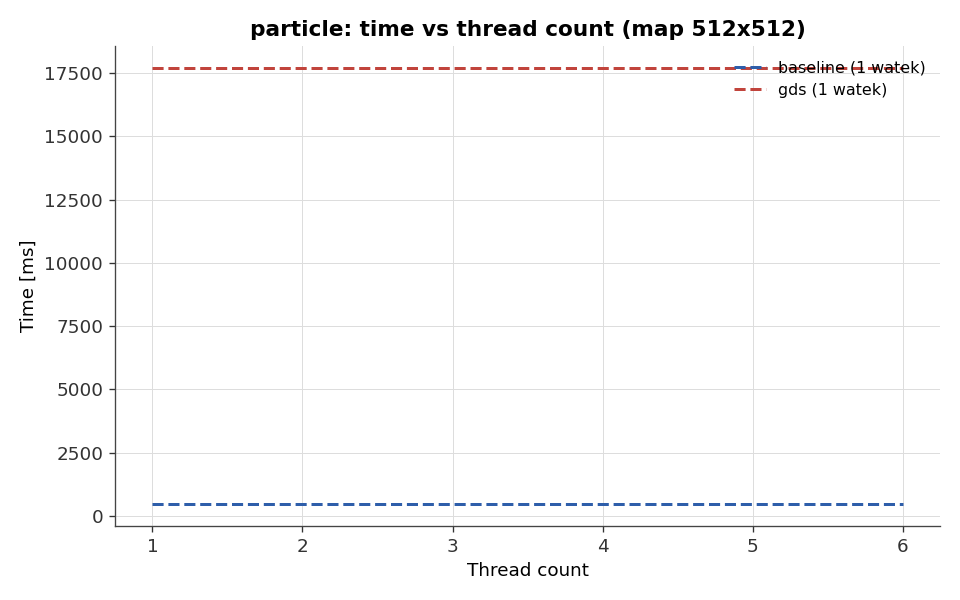
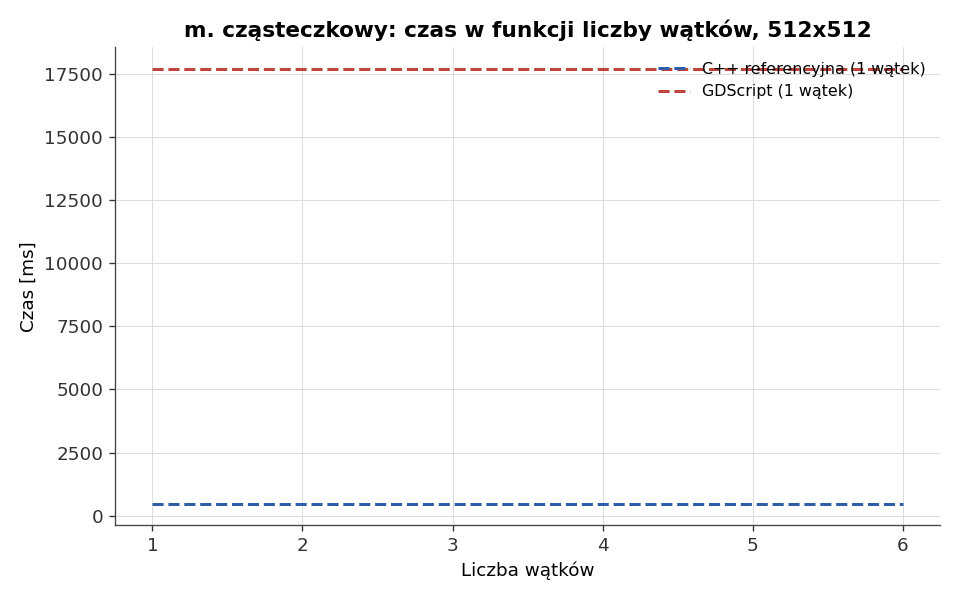
plots to polish, one plot from log+linear

diff --git a/data_analysis/analyze_results.py b/data_analysis/analyze_results.py
@@ -91,7 +91,33 @@ ITERATIONS = {
     "particle": {32: 1250, 64: 5000, 128: 20000, 256: 80000, 512: 320000},
 }
 
+# zamiana na polskie nazwy na wykresach, xd
+IMPL_LABEL = {
+    "baseline": "C++ referencyjna",
+    "gds": "GDScript",
+    "optimized": "C++ zoptymalizowana",
+}
 
+ALGO_LABEL = {
+    "pipe": "m. przepływowy",
+    "particle": "m. cząsteczkowy",
+}
+
+
+
+def impl_label(impl: str) -> str:
+    return IMPL_LABEL.get(impl, impl)
+
+def algo_label(algo: str) -> str:
+    return ALGO_LABEL.get(algo, algo)
+
+def threads_label(n) -> str:
+    n = int(n)
+    if n == 1:
+        return "1 wątek"
+    if 2 <= n % 10 <= 4 and not 12 <= n % 100 <= 14:
+        return f"{n} wątki"
+    return f"{n} wątków"
 
 # ŚCIEŻKI PER KATEGORIA
 def times_file(name: str) -> str:
@@ -151,6 +177,22 @@ def _color_for(idx: int) -> str:
 def _plain_y_axis(ax) -> None:
     ax.yaxis.set_major_formatter(mticker.ScalarFormatter())
     ax.ticklabel_format(style="plain", axis="y")
+
+# dwa warianty tego samego wykresu (liniowy + logarytmiczny) obok siebie
+def save_linear_log_pair(draw, filename_stem: str, suptitle: str, tag: str = "") -> None:
+    fig, axes = plt.subplots(1, 2, figsize=(14, 5))
+    for ax, log_variant in zip(axes, (False, True)):
+        draw(ax, log_variant)
+        ax.set_title("skala liniowa" if not log_variant else "skala log.")
+    # ta sama wielkość co po lewej
+    axes[1].set_ylabel("")
+    fig.suptitle(suptitle, fontweight="bold")
+    fig.tight_layout()
+    out = output_file(f"{filename_stem}_combined.png")
+    fig.savefig(out)
+    print(f"[{tag}] saved - {out}")
+    plt.show()
+    plt.close(fig)
 
 
 
@@ -279,7 +321,7 @@ def plot_divergence_vs_iterations() -> None:
             series[impl]["iters"].append(it)
             series[impl]["max"].append(float(np.max(np.abs(diff))))
             series[impl]["rmse"].append(float(np.sqrt(np.mean(diff ** 2))))
-            print(f"  iters={it:5d}  {impl} vs baseline:  max|delta|={series[impl]['max'][-1]:.3e}")
+            print(f"  iters={it:5d} {impl} vs baseline:  max|delta|={series[impl]['max'][-1]:.3e}")
 
     fig, ax = plt.subplots()
     for impl in DIVERGENCE_LABELS:
@@ -287,7 +329,7 @@ def plot_divergence_vs_iterations() -> None:
         if not s["iters"]:
             continue
         style = IMPL_STYLE.get(impl, {})
-        ax.plot(s["iters"], s["max"], marker="o", label=f"{impl} vs baseline", **style)
+        ax.plot(s["iters"], s["max"], marker="o", label=f"{impl_label(impl)} względem referencyjnej", **style)
 
     # poziom odniesienia: amplituda terenu - powyżej niej różnice są wizualnie istotne
     if terrain_range:
@@ -300,7 +342,7 @@ def plot_divergence_vs_iterations() -> None:
     ax.set_xticklabels(iters_list)
     ax.set_xlabel("Liczba iteracji")
     ax.set_ylabel(r"max$|\Delta|$ wysokości")
-    ax.set_title("pipe: narastanie rozbieżności numerycznej")
+    ax.set_title(f"{algo_label('pipe')}: narastanie rozbieżności numerycznej")
     ax.legend()
 
     fig.tight_layout()
@@ -308,6 +350,7 @@ def plot_divergence_vs_iterations() -> None:
     fig.savefig(out)
     print(f"[pipe] saved - {out}")
     plt.show()
+    plt.close(fig)
 
 
 
@@ -368,70 +411,76 @@ def plot_time_vs_threads(algo: str) -> None:
     opt_threads = sorted(sub[sub["impl"] == "optimized"]["threads_used"].unique())
     x_lo, x_hi = (min(opt_threads), max(opt_threads)) if len(opt_threads) > 1 else DEFAULT_THREAD_RANGE
 
-    for log_variant in (False, True):
-        fig, ax = plt.subplots()
+    def draw(ax, log_variant: bool) -> None:
         for impl, g in sub.groupby("impl"):
             style = IMPL_STYLE.get(impl, {"color": "#4C4C4C", "linestyle": "-"})
             if impl == "optimized" and len(g) > 1:
                 g = g.sort_values("threads_used")
-                ax.plot(g["threads_used"], g["mean_us"] / 1000.0, marker="o", color=style["color"], linestyle=style["linestyle"], label=impl)
+                ax.plot(g["threads_used"], g["mean_us"] / 1000.0, marker="o", color=style["color"], linestyle=style["linestyle"], label=impl_label(impl))
             else:
                 ref = g["mean_us"].mean() / 1000.0
-                ax.hlines(ref, x_lo, x_hi, color=style["color"], linestyles=style["linestyle"], label=f"{impl} (1 watek)")
+                ax.hlines(ref, x_lo, x_hi, color=style["color"], linestyles=style["linestyle"], label=f"{impl_label(impl)} ({threads_label(1)})")
 
-        ax.set_xlabel("Thread count")
-        ax.set_ylabel("Time [ms]")
-    
+        ax.set_xlabel("Liczba wątków")
+        ax.set_ylabel("Czas [ms]")
+
         if log_variant:
             ax.set_yscale("log")
-            suffix, title = "log", f"{algo}: time vs thread count (map {max_size}x{max_size}) (log scale)"
+            ax.set_title(f"{algo_label(algo)}: czas w funkcji liczby wątków, {max_size}x{max_size}, skala log.")
         else:
             _plain_y_axis(ax)
-            suffix, title = "linear", f"{algo}: time vs thread count (map {max_size}x{max_size})"
-        
-        ax.set_title(title)
+            ax.set_title(f"{algo_label(algo)}: czas w funkcji liczby wątków, {max_size}x{max_size}")
         ax.legend()
 
+    for log_variant in (False, True):
+        fig, ax = plt.subplots()
+        draw(ax, log_variant)
         fig.tight_layout()
-        out = output_file(f"{algo}_time_vs_threads_{suffix}.png")
+        out = output_file(f"{algo}_time_vs_threads_{'log' if log_variant else 'linear'}.png")
         fig.savefig(out)
         print(f"[{algo}] saved - {out}")
         plt.show()
+        plt.close(fig)
+
+    save_linear_log_pair(draw, f"{algo}_time_vs_threads", f"{algo_label(algo)}: czas w funkcji liczby wątków, {max_size}x{max_size}", algo)
 
 
 # 3.2. CZAS vs ROZMIAR MAPY oraz SKALOWANIE (ns/komorke) - liniowo i logarytmicznie
 def _plot_vs_mapsize(algo: str, agg, y_col: str, y_label: str, title_suffix: str, filename_stem: str, unit_divisor: float = 1.0) -> None:
     sizes = sorted(agg["map_width"].unique())
 
-    for log_variant in (False, True):
-        fig, ax = plt.subplots()
+    def draw(ax, log_variant: bool) -> None:
         for impl, g in agg.groupby("impl"):
             best = g["threads_used"].max()
             gg = g[g["threads_used"] == best].sort_values("map_width")
-            label = f"optimized ({best} w.)" if impl == "optimized" else impl
+            label = f"{impl_label(impl)} ({threads_label(best)})" if impl == "optimized" else impl_label(impl)
             ax.plot(gg["map_width"], gg[y_col] / unit_divisor, marker="o", label=label)
 
         ax.set_xscale("log", base=2)
         ax.set_xticks(sizes)
         ax.set_xticklabels(sizes)
-        ax.set_xlabel("Map size (side)")
+        ax.set_xlabel("Rozmiar mapy (bok)")
         ax.set_ylabel(y_label)
 
         if log_variant:
             ax.set_yscale("log")
-            suffix, title = "log", f"{algo}: {title_suffix} (log scale)"
+            ax.set_title(f"{algo_label(algo)}: {title_suffix}, skala log.")
         else:
             _plain_y_axis(ax)
-            suffix, title = "linear", f"{algo}: {title_suffix}"
-
-        ax.set_title(title)
+            ax.set_title(f"{algo_label(algo)}: {title_suffix}")
         ax.legend()
 
+    for log_variant in (False, True):
+        fig, ax = plt.subplots()
+        draw(ax, log_variant)
         fig.tight_layout()
-        out = output_file(f"{filename_stem}_{suffix}.png")
+        out = output_file(f"{filename_stem}_{'log' if log_variant else 'linear'}.png")
         fig.savefig(out)
         print(f"[{algo}] saved - {out}")
         plt.show()
+        plt.close(fig)
+
+    save_linear_log_pair(draw, filename_stem, f"{algo_label(algo)}: {title_suffix}", algo)
 
 def plot_time_vs_mapsize(algo: str) -> None:
     df = load_timing(algo)
@@ -439,7 +488,7 @@ def plot_time_vs_mapsize(algo: str) -> None:
         print(f"\n[{algo}] skipped (time vs map size) - missing data")
         return
     agg = _agg_timing(df)
-    _plot_vs_mapsize(algo, agg, "mean_us", "Time [ms]", "time vs map size", f"{algo}_time_vs_mapsize", unit_divisor=1000.0)
+    _plot_vs_mapsize(algo, agg, "mean_us", "Czas [ms]", "czas w funkcji rozmiaru mapy", f"{algo}_time_vs_mapsize", unit_divisor=1000.0)
 
 # czy koszt na komórkę jest stały czy się zmienia (np. przejście między poziomami cache)
 def plot_time_scaling(algo: str) -> None:
@@ -451,7 +500,7 @@ def plot_time_scaling(algo: str) -> None:
     agg["cells"] = agg["map_width"].astype(float) ** 2
     agg["iters"] = agg["map_width"].map(ITERATIONS[algo]).astype(float)
     agg["ns_per_cell"] = agg["mean_us"] * 1000.0 / (agg["cells"] * agg["iters"])
-    _plot_vs_mapsize(algo, agg, "ns_per_cell", "Time per cell and iteration [ns]", "time per cell and iteration vs map size (scaling)", f"{algo}_time_scaling", unit_divisor=1.0)
+    _plot_vs_mapsize(algo, agg, "ns_per_cell", "Czas na komórkę i iterację [ns]", "czas na komórkę i iterację a rozmiar mapy", f"{algo}_time_scaling", unit_divisor=1.0)
 
 
 # 3.3. PRZYŚPIESZENIE
@@ -477,15 +526,16 @@ def plot_speedup_vs_baseline(algo: str) -> None:
     fig, ax = plt.subplots()
     ax.plot(opt["threads_used"], speedup, marker="o", color=_color_for(1))
     ax.axhline(1.0, color="#999999", linestyle="--", linewidth=1)
-    ax.set_xlabel("Thread count")
-    ax.set_ylabel("Speedup relative to baseline C++ (1 thread)")
-    ax.set_title(f"{algo}: speedup optimized/baseline, map {max_size}x{max_size}")
+    ax.set_xlabel("Liczba wątków")
+    ax.set_ylabel("Przyśpieszenie względem C++ (1 wątek)")
+    ax.set_title(f"{algo_label(algo)}: przyśpieszenie wersji zoptymalizowanej, {max_size}x{max_size}")
 
     fig.tight_layout()
     out = output_file(f"{algo}_speedup_vs_baseline.png")
     fig.savefig(out)
     print(f"[{algo}] saved - {out}")
     plt.show()
+    plt.close(fig)
 
 def plot_speedup_vs_gds(algo: str) -> None:
     df = load_timing(algo)
@@ -516,18 +566,16 @@ def plot_speedup_vs_gds(algo: str) -> None:
         x_range = (int(opt["threads_used"].min()), int(opt["threads_used"].max()))
 
     fig, ax = plt.subplots()
-    ax.hlines(base_vs_gds, x_range[0], x_range[1], linestyles="--",
-              color=_color_for(0), label="baseline C++ / GDScript")
+    ax.hlines(base_vs_gds, x_range[0], x_range[1], linestyles="--", color=_color_for(0), label=f"{impl_label('baseline')} / {impl_label('gds')}")
 
     if opt is not None and len(opt) > 1:
         opt_vs_gds = gds_time / opt["mean_us"]
-        ax.plot(opt["threads_used"], opt_vs_gds, marker="o", color=_color_for(1),
-                 label="optimized C++ / GDScript")
+        ax.plot(opt["threads_used"], opt_vs_gds, marker="o", color=_color_for(1), label=f"{impl_label('optimized')} / {impl_label('gds')}")
 
     ax.axhline(1.0, color="#999999", linestyle=":", linewidth=1)
-    ax.set_xlabel("Thread count")
-    ax.set_ylabel("Speedup relative to GDScript")
-    ax.set_title(f"{algo}: speedup C++ relative to GDScript, map {max_size}x{max_size}")
+    ax.set_xlabel("Liczba wątków")
+    ax.set_ylabel("Przyśpieszenie względem GDScript")
+    ax.set_title(f"{algo_label(algo)}: przyśpieszenie C++ względem GDScript, {max_size}x{max_size}")
     ax.legend()
 
     fig.tight_layout()
@@ -535,6 +583,7 @@ def plot_speedup_vs_gds(algo: str) -> None:
     fig.savefig(out)
     print(f"[{algo}] saved - {out}")
     plt.show()
+    plt.close(fig)
 
 
 
@@ -590,20 +639,23 @@ def plot_memory(algo: str, target_bins: int = 60) -> None:
 
         formula = ANALYTICAL_BYTES.get(algo)
         if formula:
-            ax.axhline(formula(max_size) / 1e6, color="#999999", linestyle="--", linewidth=1)
+            ax.axhline(formula(max_size) / 1e6, color="#999999", linestyle="--", linewidth=1, label="wartość analityczna")
 
-        ax.set_xlabel("Time [ms]")
+        ax.set_xlabel("Czas [ms]")
         if idx == 0:
-            ax.set_ylabel("Memory growth vs start [MB]")
+            ax.set_ylabel("Przyrost pamięci względem stanu początkowego [MB]")
         _plain_y_axis(ax)
-        ax.set_title(f"{impl} ({g['run'].nunique()} runs)")
+        ax.set_title(f"{impl_label(impl)} (przebiegi: {g['run'].nunique()})")
+        if formula:
+            ax.legend()
 
-    fig.suptitle(f"{algo}: memory in time per implementation, map {max_size}x{max_size}", fontweight="bold")
+    fig.suptitle(f"{algo_label(algo)}: zużycie pamięci w czasie, {max_size}x{max_size}", fontweight="bold")
     fig.tight_layout()
     out = output_file(f"{algo}_memory.png")
     fig.savefig(out)
     print(f"[{algo}] saved - {out}")
     plt.show()
+    plt.close(fig)
 
 def report_analytical_memory() -> None:
     print("\n=== Analytical buffer footprint (pipe) ===")
@@ -698,14 +750,13 @@ def plot_realtime_frametime(family: str) -> None:
     fig, ax = plt.subplots()
     for idx, (impl, g) in enumerate(sub.groupby("impl")):
         g = g.sort_values("iterations_at_once")
-        ax.plot(g["iterations_at_once"], g["p95_ms"], marker="o",
-                color=_color_for(idx), label=impl)
+        ax.plot(g["iterations_at_once"], g["p95_ms"], marker="o", color=_color_for(idx), label=impl_label(impl))
 
-    ax.axhline(FPS_BUDGET_MS, color="#999999", linestyle="--", linewidth=1, label="60 FPS budget (16.67 ms)")
-    ax.set_xlabel("iterations_at_once")
-    ax.set_ylabel("Frame time, p95 [ms]")
+    ax.axhline(FPS_BUDGET_MS, color="#999999", linestyle="--", linewidth=1, label="budżet 60 kl./s (16.67 ms)")
+    ax.set_xlabel("Liczba iteracji na klatkę")
+    ax.set_ylabel("Czas klatki, p95 [ms]")
     _plain_y_axis(ax)
-    ax.set_title(f"{family}: p95 frame time vs iterations_at_once (map {max_size}x{max_size})")
+    ax.set_title(f"{algo_label(family)}: czas klatki (p95) a liczba iteracji, {max_size}x{max_size}")
     ax.legend()
 
     fig.tight_layout()
@@ -713,6 +764,7 @@ def plot_realtime_frametime(family: str) -> None:
     fig.savefig(out)
     print(f"[{family}] saved - {out}")
     plt.show()
+    plt.close(fig)
 
 # max iterations_at_once mieszczące się w budżecie 60 FPS, w funkcji rozmiaru mapy - jedna linia na implementację
 def plot_realtime_budget_vs_mapsize(family: str) -> None:
@@ -733,15 +785,15 @@ def plot_realtime_budget_vs_mapsize(family: str) -> None:
     fig, ax = plt.subplots()
     for idx, (impl, g) in enumerate(agg.groupby("impl")):
         g = g.sort_values("map_size")
-        ax.plot(g["map_size"], g["max_iters"], marker="o", color=_color_for(idx), label=impl)
+        ax.plot(g["map_size"], g["max_iters"], marker="o", color=_color_for(idx), label=impl_label(impl))
 
     ax.set_xscale("log", base=2)
     ax.set_xticks(sizes)
     ax.set_xticklabels(sizes)
-    ax.set_xlabel("Map size (side)")
-    ax.set_ylabel("Max. iterations_at_once in 60 FPS budget")
+    ax.set_xlabel("Rozmiar mapy (bok)")
+    ax.set_ylabel("Maks. liczba iteracji w budżecie 60 kl./s")
     _plain_y_axis(ax)
-    ax.set_title(f"{family}: 60 FPS budget vs map size")
+    ax.set_title(f"{algo_label(family)}: budżet 60 kl./s w funkcji rozmiaru mapy")
     ax.legend()
 
     fig.tight_layout()
@@ -749,6 +801,7 @@ def plot_realtime_budget_vs_mapsize(family: str) -> None:
     fig.savefig(out)
     print(f"[{family}] saved - {out}")
     plt.show()
+    plt.close(fig)
 
 
 
